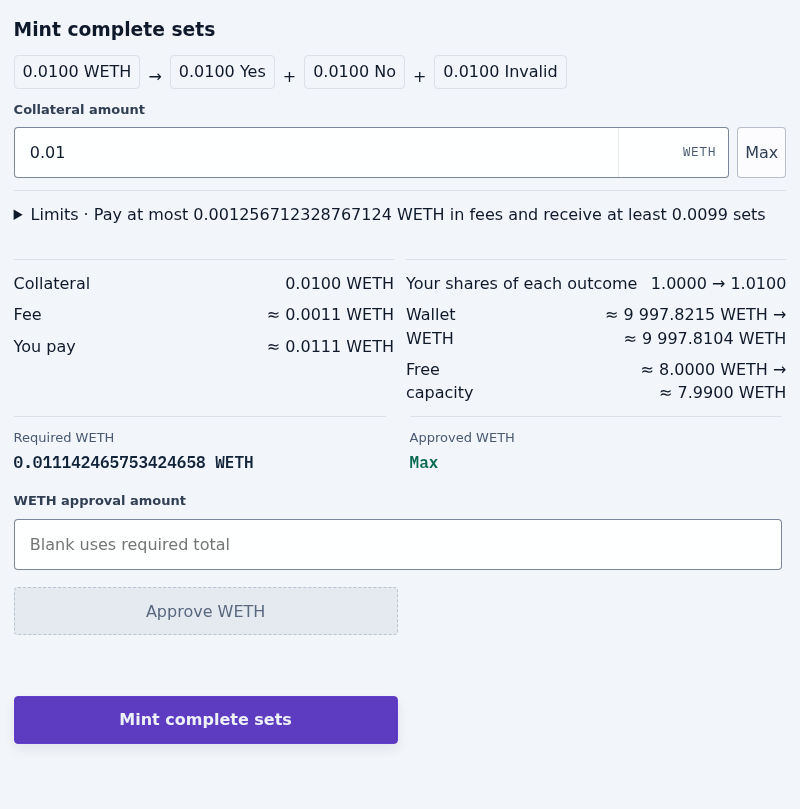
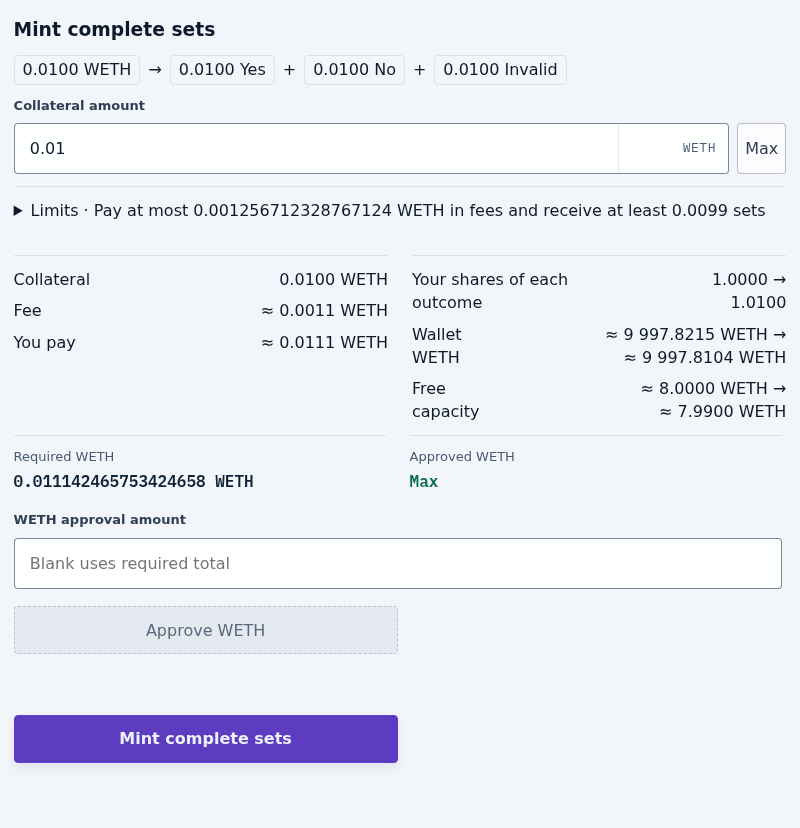
Refresh documentation screenshots for the header and mint changes

diff --git a/docs/tutorials/statoblast-first-pool.html b/docs/tutorials/statoblast-first-pool.html
@@ -41,7 +41,7 @@
 					<li>When the review shows <strong>Confirmed</strong>, select <strong>Close</strong> and inspect your outcome balances under <strong>Your holdings</strong>. Each outcome has the same newly minted quantity.</li>
 				</ol>
 				<figure class="screenshot">
-					<a class="screenshot-link" href="../assets/screenshots/statoblast/security-pool-purchase.png"><img width="800" height="809" src="../assets/screenshots/statoblast/security-pool-purchase.png" alt="The mint form shows the collateral and fee, the total paid, and how the wallet and shares will change." loading="lazy" /></a>
+					<a class="screenshot-link" href="../assets/screenshots/statoblast/security-pool-purchase.png"><img width="800" height="828" src="../assets/screenshots/statoblast/security-pool-purchase.png" alt="The mint form shows the collateral and fee, the total paid, and how the wallet and shares will change." loading="lazy" /></a>
 					<figcaption><span class="figure-label">Mint controls.</span> Review the collateral and fee before continuing.</figcaption>
 				</figure>
 				<p>See <a href="../explanation/fees.html">Fees</a> for purchase costs and the <a href="../reference/operator-guardrails.html#security-pool-guardrails">capital guardrails</a> for withdrawal rules.</p>
